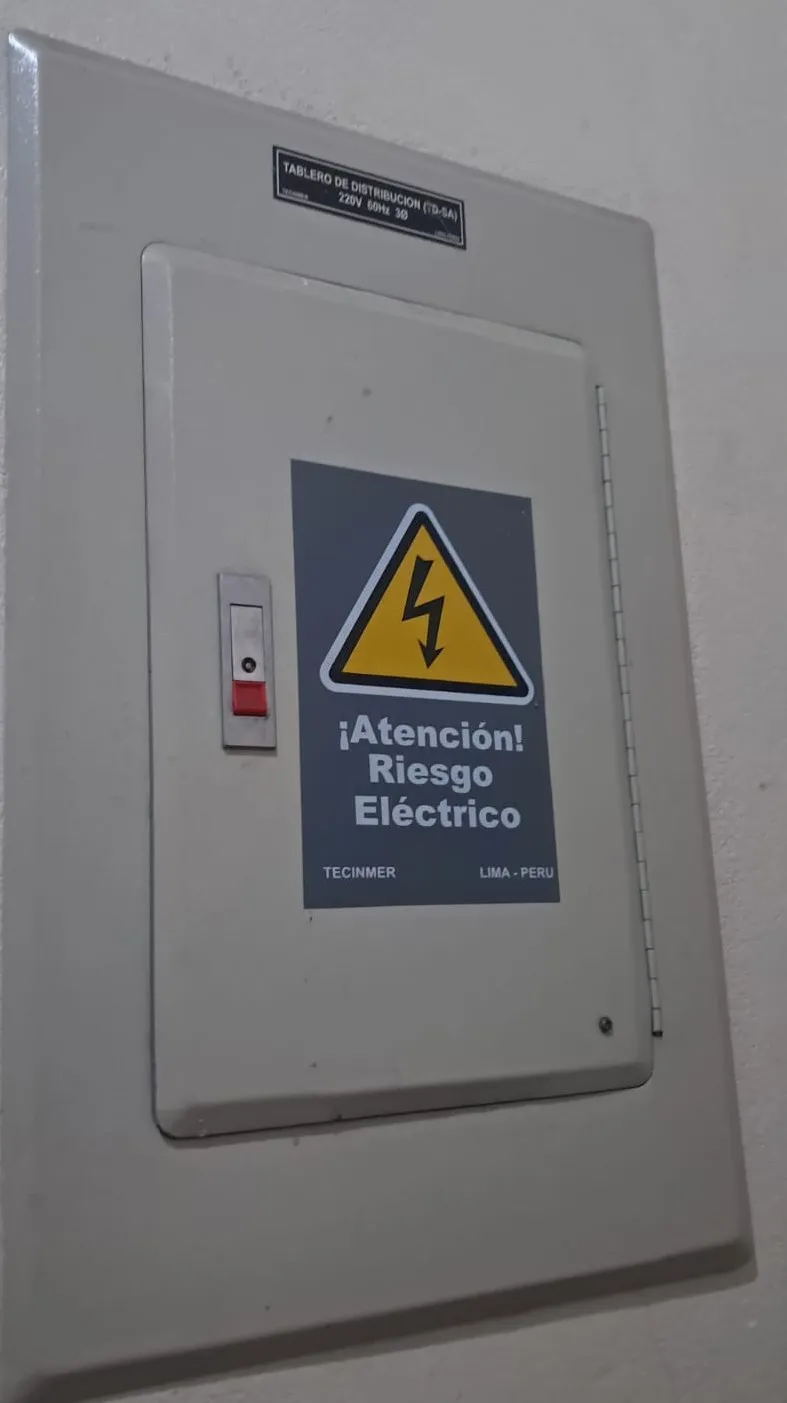
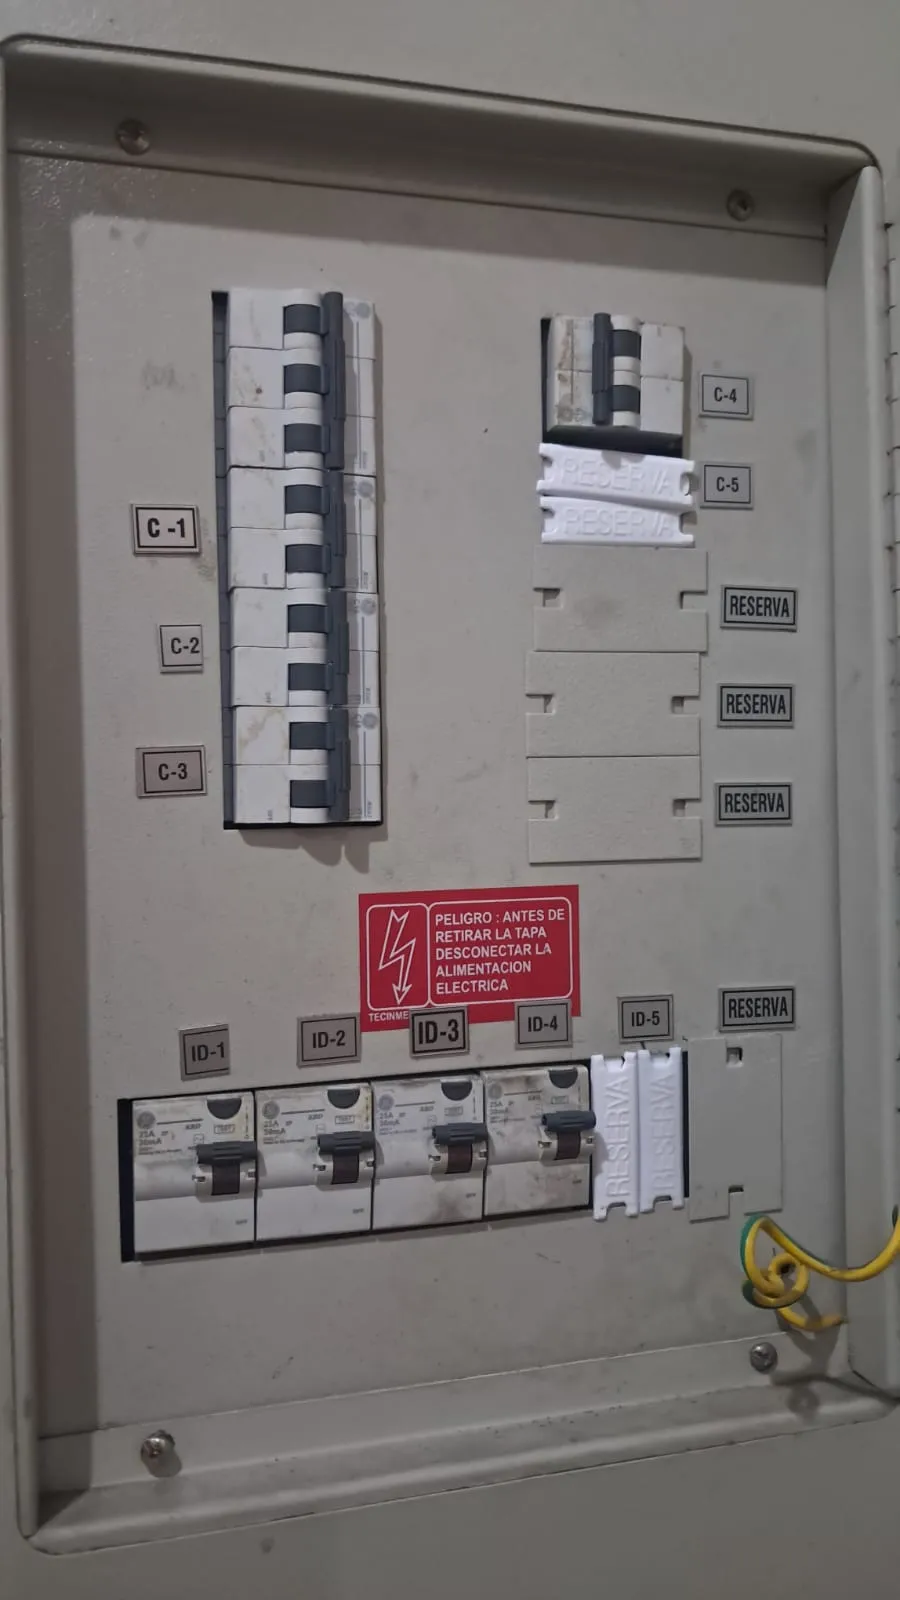
RECORRIDO

diff --git a/fonts.css b/fonts.css
@@ -18,7 +18,7 @@
 }
 @font-face {
    font-family: "Montserrat";
-   src: url("fonts/Montserrat-Black.woff2") format("woff2");
+   src: url("fonts/Montserrat-Light.woff2") format("woff2");
    font-weight: normal;
    font-style: normal;
 }